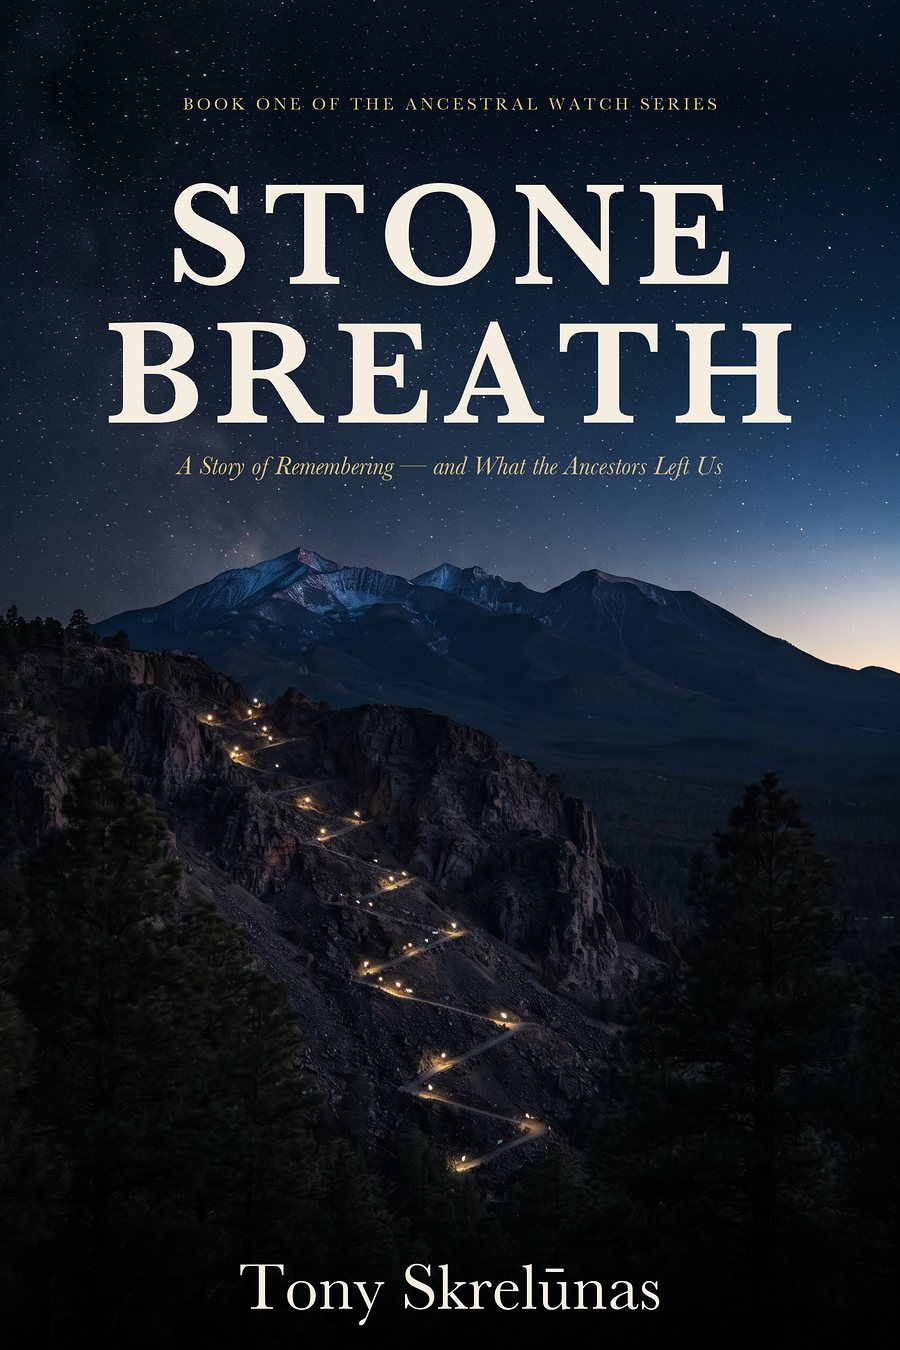
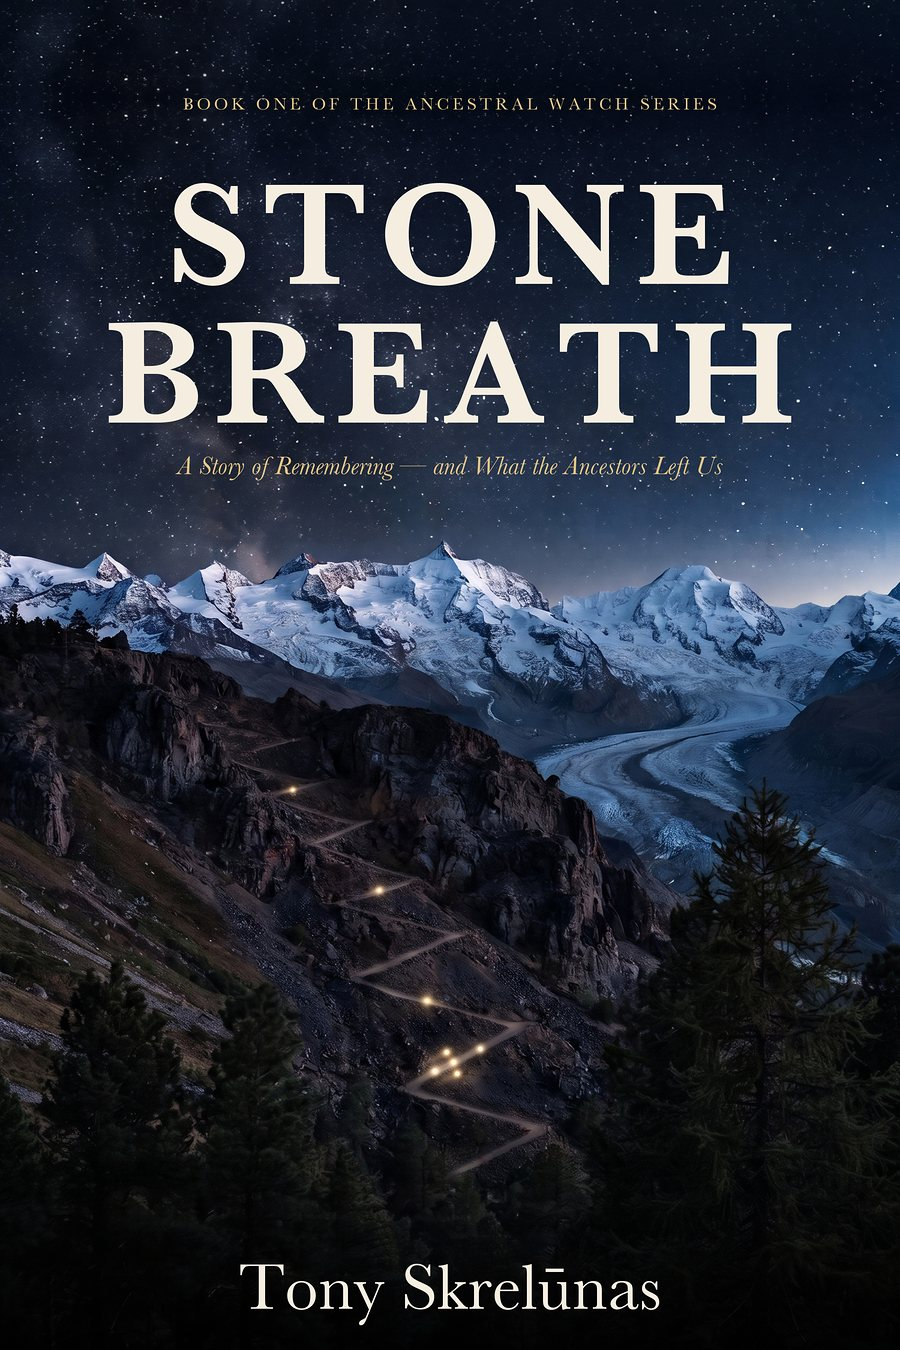
Stone Breath: the cover Tony chose on 11/21, the Swiss Alps before dawn with the five headlamps of mile 95 low on the trail and three lights above (Tony: 'Yes, use it', 'ok use the updated ebook'); same file names and sizes, and the cover's description on the book page matches the picture

diff --git a/series/stone-breath/index.html b/series/stone-breath/index.html
@@ -139,7 +139,7 @@
           <div class="wc-cover3d__card">
             <span class="wc-cover3d__edge" aria-hidden="true"></span>
             <img src="/assets/img/stone-breath-cover.jpg" width="900" height="1350" loading="eager"
-                 alt="Cover of Stone Breath by Tony Skrelūnas: headlamps coming down the Mount Elden trail before dawn, the San Francisco Peaks behind them under the stars" />
+                 alt="Cover of Stone Breath by Tony Skrelūnas: before dawn in the Swiss Alps, five headlamps move together down a mountain trail with a few more lights above them, snow peaks and a glacier behind under the stars" />
             <span class="wc-cover3d__sheen" aria-hidden="true"></span>
             <span class="wc-cover3d__shadow" aria-hidden="true"></span>
           </div>
